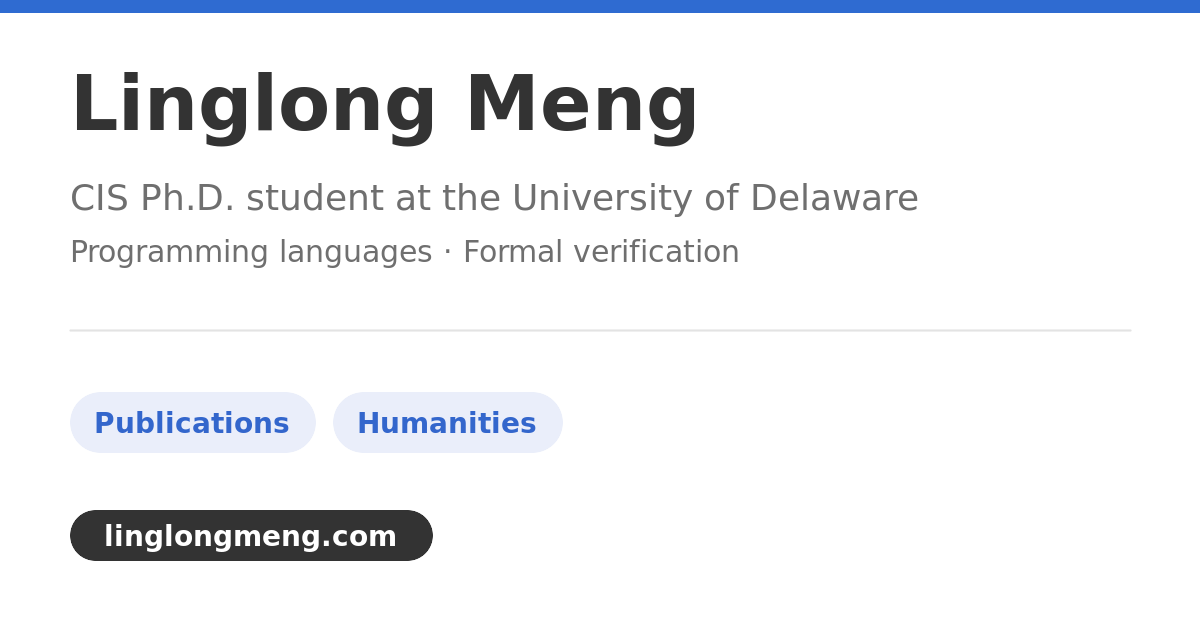
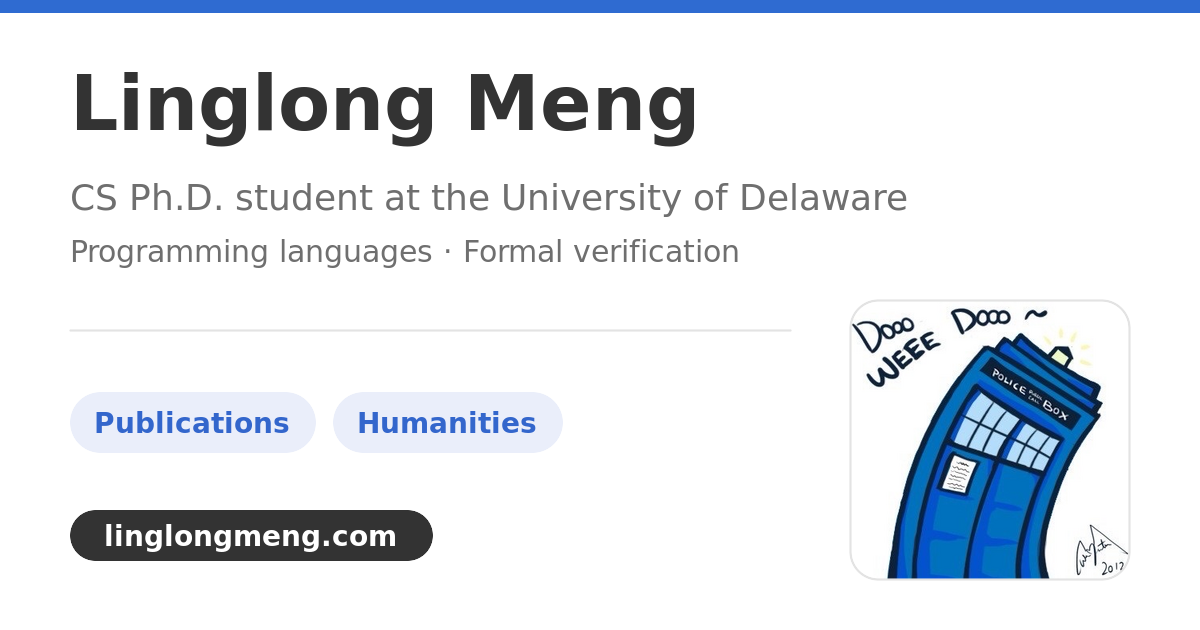
Use CS instead of CIS; add profile photo to link preview card

Changed region(s): [[0.7092, 0.4825, 0.9558, 0.9349], [0.0617, 0.2714, 0.7708, 0.3619]]

diff --git a/_pages/about.md b/_pages/about.md
@@ -8,7 +8,7 @@ redirect_from:
   - /about.html
 ---
 
-I'm a Ph.D. student in Computer and Information Science at the University of Delaware, starting in Fall 2026. I'm currently working on something involving Frama-C and MPI. I'm very excited about Frama-C, which seems to combine deductive verification and SMT. Another French technology! (developed in France, like CompCert, Rocq, and OCaml).
+I'm a Ph.D. student in CS at the University of Delaware, starting in Fall 2026. I'm currently working on something involving Frama-C and MPI. I'm very excited about Frama-C, which seems to combine deductive verification and SMT. Another French technology! (developed in France, like CompCert, Rocq, and OCaml).
 
 Past Projects
 ======
